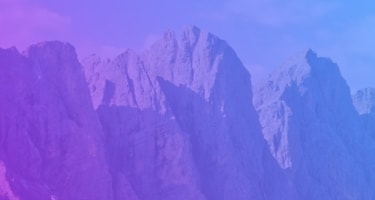
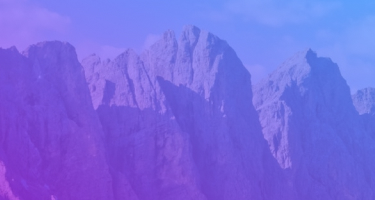
added light background mobile image to header element

Changed region(s): [[0.8507, 0.81, 1.0, 1.0], [0.8213, 0.93, 0.8507, 0.99]]

diff --git a/public/dist/output.css b/public/dist/output.css
@@ -550,10 +550,6 @@ video {
   display: block;
 }
 
-.flex {
-  display: flex;
-}
-
 .table {
   display: table;
 }
@@ -564,6 +560,10 @@ video {
 
 .hidden {
   display: none;
+}
+
+.h-\[200px\] {
+  height: 200px;
 }
 
 .border-collapse {
@@ -582,9 +582,16 @@ video {
   border-width: 1px;
 }
 
-.text-red-500 {
-  --tw-text-opacity: 1;
-  color: rgb(239 68 68 / var(--tw-text-opacity));
+.bg-bgMobileLight {
+  background-image: url('/images/bg-mobile-light.jpg');
+}
+
+.bg-cover {
+  background-size: cover;
+}
+
+.bg-no-repeat {
+  background-repeat: no-repeat;
 }
 
 .underline {

diff --git a/tailwind.config.js b/tailwind.config.js
@@ -2,7 +2,11 @@
 module.exports = {
   content: ['./views/**/*.ejs', './public'],
   theme: {
-    extend: {},
+    extend: {
+      backgroundImage: {
+        bgMobileLight: "url('/images/bg-mobile-light.jpg')",
+      },
+    },
   },
   plugins: [],
 };
